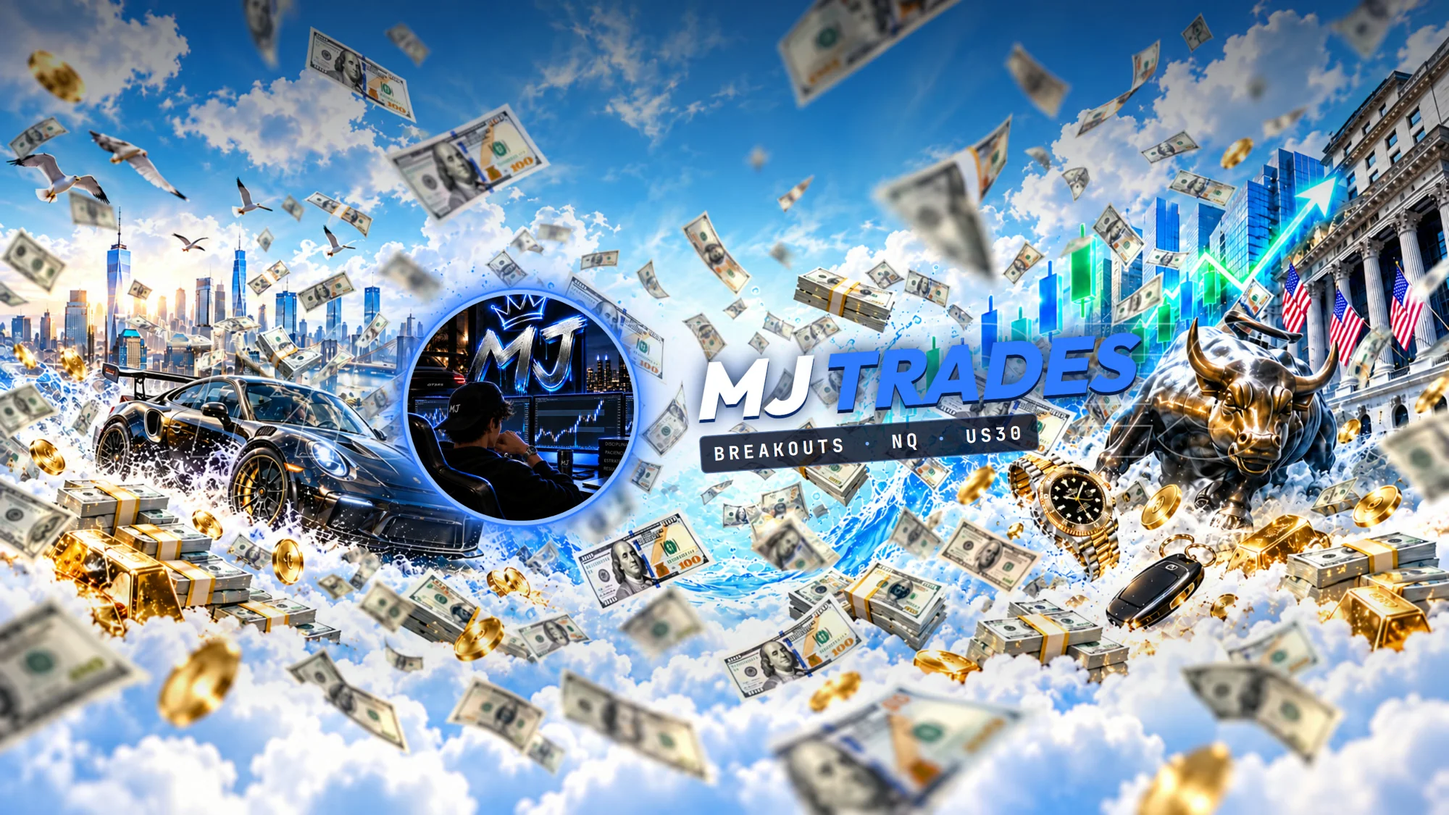
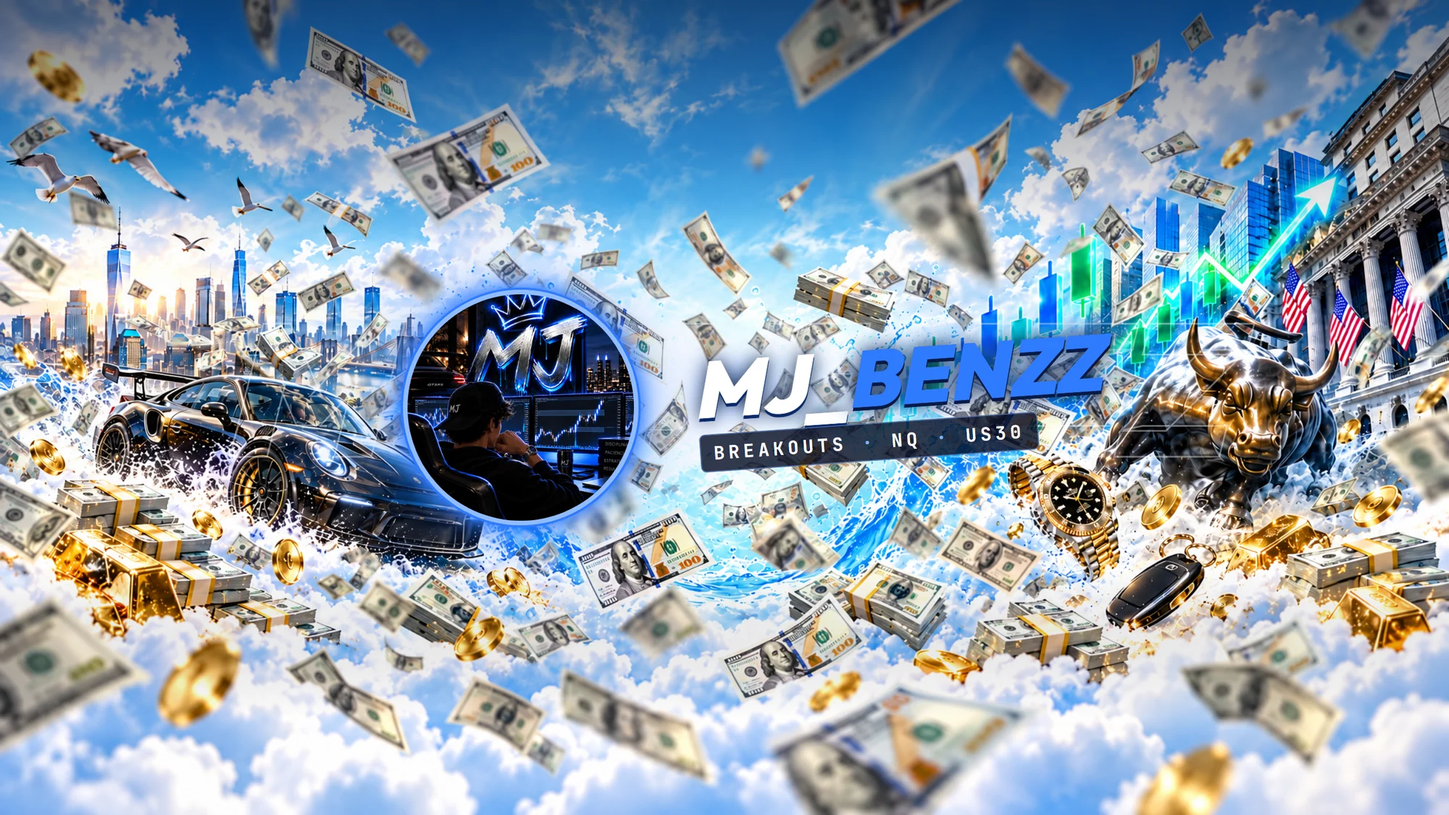
Win rate, BE con importe y nuevo nombre MJ_benzz
- Panel: tarjeta de win rate (ganados / ganados + perdidos, sin contar BE)
- BE con ganancia opcional de hasta $100; se conserva al editar
- Marca, enlaces, pie y banner pasan de MJ Trades a MJ_benzz

Changed region(s): [[0.496, 0.4044, 0.868, 0.5911], [0.155, 0.4667, 0.248, 0.56]]

diff --git a/app.html b/app.html
@@ -3,8 +3,8 @@
 <head>
 <meta charset="utf-8">
 <meta name="viewport" content="width=device-width, initial-scale=1, viewport-fit=cover">
-<title>Sangre Fría · MJ Trades</title>
-<meta name="description" content="Anota tus trades y descubre cuánto te cuesta romper tus reglas. Gratis, por MJ Trades.">
+<title>Sangre Fría · MJ_benzz</title>
+<meta name="description" content="Anota tus trades y descubre cuánto te cuesta romper tus reglas. Gratis, por MJ_benzz.">
 <meta name="theme-color" content="#02040a">
 <link rel="icon" href="favicon.ico" sizes="any">
 <link rel="icon" type="image/png" sizes="32x32" href="icono-32.png">
@@ -1246,7 +1246,7 @@
   <aside class="lateral">
     <a class="marca" href="index.html">
       <span class="logo"><img src="img/juego/app-icono.webp" alt="Sangre Fría"></span>
-      <span><b>Sangre Fría</b><small>by MJ Trades</small></span>
+      <span><b>Sangre Fría</b><small>by MJ_benzz</small></span>
     </a>
     <button class="ficha" id="ficha" aria-label="Tu perfil y tu pase"></button>
     <nav class="menu" id="menu">
@@ -1260,7 +1260,7 @@
     </nav>
     <button type="button" class="cuenta-chip" id="cuenta-chip" hidden></button>
     <div class="discord-card">
-      <b>Comunidad MJ Trades</b>
+      <b>Comunidad MJ_benzz</b>
       Comparte tu tarjeta y opera con más traders disciplinados.
       <a href="https://discord.gg/ahPAFXASs7" target="_blank" rel="noopener"><svg width="18" height="18"><use href="#i-discord"/></svg>Entrar al Discord</a>
     </div>
@@ -1268,10 +1268,10 @@
 
   <div>
     <div class="barra-movil">
-      <a class="marca" href="index.html"><span class="logo"><img src="img/juego/app-icono.webp" alt="Sangre Fría"></span><span><b>Sangre Fría</b><small>by MJ Trades</small></span></a>
+      <a class="marca" href="index.html"><span class="logo"><img src="img/juego/app-icono.webp" alt="Sangre Fría"></span><span><b>Sangre Fría</b><small>by MJ_benzz</small></span></a>
       <a class="inicio-movil" href="index.html" aria-label="Página principal"><svg width="20" height="20"><use href="#i-casa"/></svg></a>
       <button class="ficha-movil" id="ficha-movil" aria-label="Tu perfil"></button>
-      <a class="dc" href="https://discord.gg/ahPAFXASs7" target="_blank" rel="noopener" aria-label="Discord de MJ Trades"><svg width="20" height="20"><use href="#i-discord"/></svg></a>
+      <a class="dc" href="https://discord.gg/ahPAFXASs7" target="_blank" rel="noopener" aria-label="Discord de MJ_benzz"><svg width="20" height="20"><use href="#i-discord"/></svg></a>
     </div>
 
     <main>
@@ -1279,7 +1279,7 @@
       <section id="v-portada" hidden>
         <div class="portada">
           <div>
-            <div class="sello"><img src="mj-logo.png" alt="">Gratis · por MJ Trades</div>
+            <div class="sello"><img src="mj-logo.png" alt="">Gratis · por MJ_benzz</div>
             <h1>Tus reglas<br>valen <span class="grad">dinero.</span><br>Mira cuánto.</h1>
             <p class="lead">Anota tus trades, marca cuándo rompiste tus reglas y descubre cuánto habrías ganado si las hubieras seguido.</p>
             <div style="display:flex;gap:12px;flex-wrap:wrap">
@@ -1374,7 +1374,7 @@
         </form>
       </section>
 
-      <footer>Hecho por <b>MJ Trades</b> · <a href="https://discord.gg/ahPAFXASs7" target="_blank" rel="noopener">Únete a la comunidad en Discord</a><br>Herramienta educativa. No es asesoría financiera.</footer>
+      <footer>Hecho por <b>MJ_benzz</b> · <a href="https://discord.gg/ahPAFXASs7" target="_blank" rel="noopener">Únete a la comunidad en Discord</a><br>Herramienta educativa. No es asesoría financiera.</footer>
     </main>
   </div>
 </div>
@@ -1668,6 +1668,18 @@ function revelar(raiz) {
    máxima diaria en el camino "con reglas". */
 const riesgoPlan$ = aj => aj.cuenta * aj.riesgo / 100;
 
+/* Un BE puede llevar una ganancia pequeña (hasta BE_MAX). Los trades viejos sin la
+   marca "be" siguen contando como BE si su resultado fue $0. */
+const BE_MAX = 100;
+const esBE = t => t.be === true || t.resultado === 0;
+const esGanado = t => !esBE(t) && t.resultado > 0;
+const esPerdido = t => !esBE(t) && t.resultado < 0;
+// Win rate: ganados entre ganados + perdidos (los BE no cuentan). null si no hay ninguno.
+function winRate(trades) {
+  const g = trades.filter(esGanado).length, p = trades.filter(esPerdido).length;
+  return g + p ? Math.round(g / (g + p) * 100) : null;
+}
+
 function resultadoPlanBase(t, aj) {
   if (t.ok) return t.resultado;
   if (t.plan === 'nada') return 0;
@@ -1799,7 +1811,9 @@ function pintarPanel() {
   const limpios = lista.filter(x => !x.roto), rotos = lista.filter(x => x.roto);
   const pctDisc = Math.round(limpios.length / lista.length * 100);
   const media = arr => arr.length ? r2(arr.reduce((s, x) => s + x.real, 0) / arr.length) : 0;
-  const winrate = arr => arr.length ? Math.round(arr.filter(x => x.real > 0).length / arr.length * 100) : 0;
+  const winrate = arr => winRate(arr.map(x => x.t)) ?? 0;
+  const tradesPeriodo = lista.map(x => x.t), wr = winRate(tradesPeriodo);
+  const nGan = tradesPeriodo.filter(esGanado).length, nPer = tradesPeriodo.filter(esPerdido).length, nBE = tradesPeriodo.filter(esBE).length;
   const diasOperados = new Set(lista.map(x => x.t.fecha)).size;
   const anual = coste > 0 ? Math.round(coste / diasOperados * 240) : 0;
   const racha = rachaLimpia(todos);
@@ -1825,7 +1839,7 @@ function pintarPanel() {
     const linea = (f, quien) => f.quemada
       ? `<span class="rojo"><b>${quien}: cuenta quemada</b> el ${nombreDia(f.quemada).toLowerCase()}.</span>`
       : `${quien}: te quedan <b class="num" style="font-size:16px">${dinero(f.margen)}</b> antes de quemarla.`;
-    fondeo = `<div class="cristal s3 ancho aparece"><span class="etiqueta">Cuenta de fondeo · drawdown ${aj.ddTipo === 'trailing' ? 'trailing' : 'estático'} de ${dinero(aj.dd)}</span>
+    fondeo = `<div class="cristal s6 aparece"><span class="etiqueta">Cuenta de fondeo · drawdown ${aj.ddTipo === 'trailing' ? 'trailing' : 'estático'} de ${dinero(aj.dd)}</span>
       <div class="tanque"><i data-w="${pr}"></i><u style="left:calc(${pp}% - 1px)" title="Con tus reglas"></u></div>
       <p style="margin:10px 0 4px">${linea(fr, 'Real')}</p><p style="margin:0" class="hielo">${linea(fp, 'Con tus reglas')}</p></div>`;
   }
@@ -1855,10 +1869,15 @@ function pintarPanel() {
         ? `<span class="etiqueta">Si sigues así</span><span class="num rojo" data-n="${-anual}">$0</span><p>Es lo que te costaría en un año de trading (240 días) al ritmo de ${nombreP}.</p>`
         : `<span class="etiqueta">Si sigues así</span><span class="num hielo">$0</span><p>No estás perdiendo dinero por romper reglas. Mantén el ritmo.</p>`}</div>
 
+      <div class="cristal s3 ancho dato aparece" id="win-rate"><span class="etiqueta">Win rate</span>
+        ${wr === null ? '<span class="num">—</span>' : `<span class="num" data-n="${wr}" data-f="p">0%</span>`}
+        <p><b class="verde">${nGan} ${nGan === 1 ? 'ganado' : 'ganados'}</b> · <b class="rojo">${nPer} ${nPer === 1 ? 'perdido' : 'perdidos'}</b> · <b>${nBE} BE</b></p>
+        <p style="margin-top:4px">Los BE no cuentan en el porcentaje.</p></div>
+
       <div class="cristal s3 ancho aparece"><span class="etiqueta">Un trade promedio</span>
         <div class="comparar">
-          <div class="fila"><span>Con reglas<br><small class="mut">${winrate(limpios)}% ganadores</small></span>${barra(mL, 'linear-gradient(90deg,#b9dcff,#2f7bff)')}<b class="${claseDinero(mL)}">${limpios.length ? dinero(mL, true) : '—'}</b></div>
-          <div class="fila"><span>Sin reglas<br><small class="mut">${winrate(rotos)}% ganadores</small></span>${barra(mR, 'linear-gradient(90deg,#ff7a85,#ff4d5e)')}<b class="${claseDinero(mR)}">${rotos.length ? dinero(mR, true) : '—'}</b></div>
+          <div class="fila"><span>Con reglas<br><small class="mut">${winrate(limpios)}% win rate</small></span>${barra(mL, 'linear-gradient(90deg,#b9dcff,#2f7bff)')}<b class="${claseDinero(mL)}">${limpios.length ? dinero(mL, true) : '—'}</b></div>
+          <div class="fila"><span>Sin reglas<br><small class="mut">${winrate(rotos)}% win rate</small></span>${barra(mR, 'linear-gradient(90deg,#ff7a85,#ff4d5e)')}<b class="${claseDinero(mR)}">${rotos.length ? dinero(mR, true) : '—'}</b></div>
         </div></div>
       ${fondeo}
 
@@ -2130,7 +2149,7 @@ function pintarHistorial() {
       html += `<div class="cristal trade aparece ${x.roto ? 'roto' : ''}">
         <div class="t-info"><div class="t1">${esc(t.activo || 'Trade')} ${t.dir ? `<span class="mut" style="font-weight:500">· ${t.dir === 'long' ? 'Long' : 'Short'}</span>` : ''}</div>
           <div class="t2">Riesgo ${t.riesgo}% · ${x.roto ? '<span class="rojo">rompiste reglas</span>' : '<span class="verde">siguiendo tus reglas</span>'}</div></div>
-        <div class="cifra"><small>Real</small><b class="${claseDinero(x.real)}">${dinero(x.real, true)}</b></div>
+        <div class="cifra"><small>${esBE(t) ? 'Real · BE' : 'Real'}</small><b class="${claseDinero(x.real)}">${dinero(x.real, true)}</b></div>
         <div class="cifra"><small>Con reglas</small><b class="${claseDinero(x.plan)}">${dinero(x.plan, true)}</b></div>
         ${rotas.length || x.auto.length || t.emocion ? `<div class="etiquetas">
           ${rotas.map(r => `<span class="etq">${esc(r)}</span>`).join('')}
@@ -2273,6 +2292,13 @@ const FLECHA = { long: ICO('long'), short: ICO('short') };
 const VERDE = '#2ee08a', ROJO = '#ff4d5e', AZUL = '#2f7bff';
 const nombreTr = i => edit.items.length > 1 ? 'Trade ' + (i + 1) : 'Tu trade';
 
+const textoMonto = s => s === -1 ? '¿Cuánto perdiste en $?' : s === 0 ? `¿Ganaste algo? Opcional, máx. $${BE_MAX}` : '¿Cuánto ganaste en $?';
+// En un BE el importe es una ganancia pequeña opcional; nunca resta
+const valorItem = it => {
+  const m = Math.abs(parseFloat(it.monto) || 0);
+  return r2(it.s === 0 ? m : (it.s ?? 0) * m);
+};
+
 function htmlItem(it, i) {
   return `<div class="tr" data-i="${i}" data-res="${it.s ?? ''}">
     <div class="tr-cab"><b>${nombreTr(i)}</b><span class="tr-res"></span></div>
@@ -2285,7 +2311,7 @@ function htmlItem(it, i) {
       <button type="button" class="r-be" data-s="0" aria-pressed="${it.s === 0}">${ICO('be')}BE</button>
       <button type="button" class="r-pierde" data-s="-1" aria-pressed="${it.s === -1}">${ICO('pierde')}Perdido</button>
     </div>
-    <input type="number" data-monto min="0" step="any" inputmode="decimal" placeholder="${it.s === -1 ? '¿Cuánto perdiste en $?' : it.s === 0 ? 'BE: $0' : '¿Cuánto ganaste en $?'}" value="${it.monto}" ${it.s === 0 ? 'disabled' : ''}>
+    <input type="number" data-monto min="0" step="any" inputmode="decimal" placeholder="${textoMonto(it.s)}" value="${it.monto}">
   </div>`;
 }
 function pintarItems() {
@@ -2328,7 +2354,7 @@ function abrirTrade(id) {
   const t = id ? datos.trades.find(x => x.id === id) : null;
   edit = {
     ids: t ? [t.id] : [], paso: 1, ok: t ? t.ok : null, rotas: new Set(t?.rotas || []), plan: t?.plan || null, emocion: t?.emocion || '',
-    items: t ? [{ dir: t.dir || '', s: Math.sign(t.resultado), monto: Math.abs(t.resultado) || '' }] : [{ dir: '', s: null, monto: '' }],
+    items: t ? [{ dir: t.dir || '', s: esBE(t) ? 0 : Math.sign(t.resultado), monto: Math.abs(t.resultado) || '' }] : [{ dir: '', s: null, monto: '' }],
     rotosIdx: new Set(t ? [0] : []),
     otros: t?.planRes != null ? [{ s: Math.sign(t.planRes), monto: Math.abs(t.planRes) || '' }] : []
   };
@@ -2351,7 +2377,7 @@ const rotosI = () => edit.ok !== false ? [] : edit.items.length === 1 ? [0] : [.
 
 function pintarCuales() {
   $('#chips-tr').innerHTML = edit.items.map((it, i) => {
-    const v = r2((it.s ?? 0) * Math.abs(parseFloat(it.monto) || 0));
+    const v = valorItem(it);
     return `<button type="button" class="chip err" data-tr="${i}" aria-pressed="${edit.rotosIdx.has(i)}">Trade ${i + 1} · ${dinero(v, true)}</button>`;
   }).join('');
 }
@@ -2388,7 +2414,8 @@ function leerTrades() {
       activo: fT.activo.value.trim().toUpperCase(),
       dir: it.dir,
       riesgo: parseFloat(fT.riesgo.value) || 0,
-      resultado: r2((it.s ?? 0) * Math.abs(parseFloat(it.monto) || 0)),
+      resultado: valorItem(it),
+      be: it.s === 0,
       ok: edit.ok === null ? null : !roto,
       rotas: roto ? [...edit.rotas] : [],
       plan: roto ? edit.plan : null,
@@ -2447,7 +2474,7 @@ function actualizarTrade() {
     const t = ts[i]; if (!t) return;
     const it = edit.items[i], el = $('.tr-res', c);
     c.dataset.res = it.s ?? '';
-    el.textContent = it.s === null ? '' : it.s === 0 ? 'BE' : it.monto === '' ? '' : dinero(t.resultado, true);
+    el.textContent = it.s === null ? '' : it.s === 0 ? (t.resultado ? `BE · ${dinero(t.resultado, true)}` : 'BE') : it.monto === '' ? '' : dinero(t.resultado, true);
     el.className = 'tr-res ' + claseDinero(t.resultado);
   });
   const suma = (l, f) => r2(l.reduce((s, t) => s + f(t), 0));
@@ -2456,7 +2483,7 @@ function actualizarTrade() {
   $('#op-otro').textContent = rotos.length && edit.plan === 'otro' ? dinero(suma(rotos, t => t.planRes || 0), true) : '—';
 
   const real = suma(ts, t => t.resultado), plan = suma(ts, t => t.ok === false ? resultadoPlanBase(t, aj) : t.resultado);
-  const n = ts.length, gan = ts.filter(t => t.resultado > 0).length, per = ts.filter(t => t.resultado < 0).length;
+  const n = ts.length, gan = ts.filter(esGanado).length, per = ts.filter(esPerdido).length;
   $('#vp-real-txt').textContent = n > 1 ? `Real · ${n} trades` : 'Resultado real';
   const vr = $('#vp-real'), vp = $('#vp-plan');
   vr.dataset.n = real; vr.dataset.f = 'ds'; vr.className = 'num ' + claseDinero(real); vr.textContent = dinero(real, true);
@@ -2493,8 +2520,8 @@ fT.addEventListener('click', e => {
       it.s = Number(b.dataset.s);
       $$('[data-s]', card).forEach(x => x.setAttribute('aria-pressed', x === b));
       const inp = $('[data-monto]', card);
-      inp.disabled = it.s === 0; if (it.s === 0) { it.monto = ''; inp.value = ''; }
-      inp.placeholder = it.s === -1 ? '¿Cuánto perdiste en $?' : it.s === 0 ? 'BE: $0' : '¿Cuánto ganaste en $?';
+      if (it.s === 0) { it.monto = ''; inp.value = ''; }
+      inp.placeholder = textoMonto(it.s);
       pop(b); vibrar(it.s < 0 ? 30 : 10);
       if (it.s > 0) chispas(b, [VERDE, '#b6f5d6'], 14);
       if (it.s < 0) { card.classList.remove('temblor'); void card.offsetWidth; card.classList.add('temblor'); }
@@ -2532,6 +2559,7 @@ fT.addEventListener('submit', e => {
       const card = cards[i], quien = edit.items.length > 1 ? `el trade ${i + 1}` : 'tu trade';
       if (it.s === null) { toast(`¿${mayus(quien)} fue ganado, perdido o BE?`); card.classList.remove('temblor'); void card.offsetWidth; card.classList.add('temblor'); return; }
       if (it.s !== 0 && it.monto === '') { toast(`Escribe cuánto ${it.s > 0 ? 'ganaste' : 'perdiste'} en ${quien}`); $('[data-monto]', card).focus(); return; }
+      if (it.s === 0 && valorItem(it) > BE_MAX) { toast(`Un BE llega hasta $${BE_MAX}. Si ganaste más, márcalo como Ganado`); $('[data-monto]', card).focus(); return; }
     }
     irPaso(2); return;
   }
@@ -2771,7 +2799,7 @@ async function tarjeta() {
   txt('¿Cuánto te cuesta a ti', 1620, '800 50px \"Bricolage Grotesque\"', '#f2f7ff');
   txt('romper tus reglas?', 1690, '800 50px \"Bricolage Grotesque\"', '#4da3ff', 'rgba(47,123,255,.8)');
   txt('Calcúlalo gratis · ' + (location.host || 'Sangre Fría'), 1770, '600 34px "Bricolage Grotesque"', '#b9dcff');
-  txt('by MJ Trades', 1860, '700 30px \"Bricolage Grotesque\"', '#7f8db0');
+  txt('by MJ_benzz', 1860, '700 30px \"Bricolage Grotesque\"', '#7f8db0');
 
   cv.toBlob(async blob => {
     const nombre = `sangre-fria-${hoyISO()}.png`;

diff --git a/index.html b/index.html
@@ -3,8 +3,8 @@
 <head>
 <meta charset="utf-8">
 <meta name="viewport" content="width=device-width, initial-scale=1, viewport-fit=cover">
-<title>Sangre Fría · MJ Trades</title>
-<meta name="description" content="Anota cada trade, marca cuándo rompiste tus reglas y mira cuánto dinero te costó. Gratis, por MJ Trades.">
+<title>Sangre Fría · MJ_benzz</title>
+<meta name="description" content="Anota cada trade, marca cuándo rompiste tus reglas y mira cuánto dinero te costó. Gratis, por MJ_benzz.">
 <meta name="theme-color" content="#05070d">
 <link rel="icon" href="favicon.ico" sizes="any">
 <link rel="icon" type="image/png" sizes="32x32" href="icono-32.png">
@@ -260,7 +260,7 @@
   .cierre button:hover { background: var(--accent); transform: translateY(-.04em); }
   .cierre .expl { margin-top: 28px; font-size: var(--step-body); color: var(--muted); }
 
-  /* ---------- Pie: MJ TRADES construido con días ---------- */
+  /* ---------- Pie: MJ_BENZZ construido con días ---------- */
   footer { padding: 120px var(--m) 40px; }
   .marca-dias { display: grid; grid-template-columns: 9fr 31fr; gap: 3vw; }
   .palabra { display: grid; grid-auto-flow: column; grid-template-rows: repeat(5, auto); gap: 4px; min-width: 0; }
@@ -418,7 +418,7 @@
   }
   @media (prefers-reduced-motion: reduce) { .fl, .h2-tarjeta { animation: none !important; } }
 
-  /* Banner de MJ Trades en lugar de "Dos años sin ganar" (1-nov) */
+  /* Banner de MJ_benzz en lugar de "Dos años sin ganar" (1-nov) */
   .quien-banner { padding: 40px var(--m); }
   .quien-banner img { display: block; width: 100%; height: auto; border-radius: 18px; box-shadow: 0 30px 80px rgba(0,0,0,.5); }
   @media (max-width: 760px) { .quien-banner { padding: 24px var(--m); } .quien-banner img { border-radius: 12px; } }
@@ -518,7 +518,7 @@
     <img class="fl fl5" src="img/juego/sp-billete.webp" alt=""><img class="fl fl6" src="img/juego/sp-diamante.webp" alt="">
   </div>
   <div class="h2-txt">
-    <span class="h2-sello rv"><img src="img/juego/app-icono.webp" alt="">Gratis · by MJ Trades</span>
+    <span class="h2-sello rv"><img src="img/juego/app-icono.webp" alt="">Gratis · by MJ_benzz</span>
     <h1 class="rv">Opera con <em>sangre fría</em>.</h1>
     <p class="h2-apoyo rv">El diario de trading que te dice cuánto dinero te cuesta romper tus reglas. Anota en 20 segundos, sube de nivel y abre cofres siendo disciplinado.</p>
     <div class="h2-cta rv"><a class="boton h2-boton" href="app.html">Abrir mi diario gratis</a><a class="h2-sec" href="#prueba">Pruébalo aquí abajo</a></div>
@@ -620,14 +620,14 @@
   <p class="nota">Ejemplo de un mes en una cuenta de 50K. Tu diario arma esta lista con tus propias reglas y tus propios números.</p>
 </section>
 
-<section class="quien-banner" id="quien" aria-label="MJ Trades">
-  <img src="img/banner-mj.webp" alt="MJ Trades: logo y banner del canal" loading="lazy">
+<section class="quien-banner" id="quien" aria-label="MJ_benzz">
+  <img src="img/banner-mj.webp" alt="MJ_benzz: logo y banner del canal" loading="lazy">
 </section>
 
 <section class="faq" id="preguntas" aria-labelledby="t-faq">
   <h2 id="t-faq" class="rv">Antes de empezar</h2>
   <div class="lista">
-    <details name="faq" class="rv" open><summary>¿Cuánto cuesta?<i class="mas"></i></summary><p class="resp">Nada. Es gratis y lo va a seguir siendo. La hice para la comunidad de MJ Trades.</p></details>
+    <details name="faq" class="rv" open><summary>¿Cuánto cuesta?<i class="mas"></i></summary><p class="resp">Nada. Es gratis y lo va a seguir siendo. La hice para la comunidad de MJ_benzz.</p></details>
     <details name="faq" class="rv"><summary>¿Cómo calcula lo que habría pasado con mis reglas?<i class="mas"></i></summary><p class="resp">Cuando rompes una regla eliges qué habría pasado con tu plan: no habrías entrado ($0), el mismo trade con tu riesgo de siempre (lo recalcula solo) u otro resultado que escribes tú. El máximo de trades y la pérdida máxima del día los revisa la app sola.</p></details>
     <details name="faq" class="rv"><summary>¿Y si romper una regla me salió bien?<i class="mas"></i></summary><p class="resp">También lo ves. La app te lo dice tal cual: esta vez te salió bien, pero eso fue suerte, no tu sistema. Con el tiempo los números enseñan qué hábito te cuesta de verdad.</p></details>
     <details name="faq" class="rv"><summary>¿Sirve para cuentas de fondeo?<i class="mas"></i></summary><p class="resp">Sí. Pones tu drawdown máximo, trailing o estático, y te dice cuánto te queda antes de quemar la cuenta, con tus trades reales y con tus reglas.</p></details>
@@ -646,16 +646,16 @@
 </section>
 
 <footer>
-  <div class="marca-dias" id="marca-dias" role="img" aria-label="MJ Trades"></div>
+  <div class="marca-dias" id="marca-dias" role="img" aria-label="MJ_benzz"></div>
   <div class="pie-cols">
     <div><h3>Diario</h3><a href="app.html">Abrir mi diario</a><a href="app.html?ejemplo=1">Ver un ejemplo</a><a href="#como">Cómo funciona</a></div>
-    <div><h3>Comunidad</h3><a href="https://discord.gg/ahPAFXASs7" target="_blank" rel="noopener">Discord</a><a href="https://www.youtube.com/@MJTrades01" target="_blank" rel="noopener">YouTube</a><a href="https://www.instagram.com/mj_tradesbo/" target="_blank" rel="noopener">Instagram</a></div>
+    <div><h3>Comunidad</h3><a href="https://discord.gg/ahPAFXASs7" target="_blank" rel="noopener">Discord</a><a href="https://www.youtube.com/@MJbenzz" target="_blank" rel="noopener">YouTube</a><a href="https://www.instagram.com/mj_benzz/" target="_blank" rel="noopener">Instagram</a></div>
     <div><h3>Más</h3><a href="#cuesta">Lo que más cuesta</a><a href="#quien">Quién está detrás</a><a href="#preguntas">Preguntas</a></div>
     <div><h3>Aviso</h3><p style="font-size:15px;line-height:1.45">Herramienta educativa. No es asesoría financiera.</p></div>
-    <div class="contacto"><h3>MJ Trades</h3><p style="font-size:15px;line-height:1.45">Trader de futuros y creador de contenido. Opero en vivo y comparto el proceso, con todo y errores.</p></div>
+    <div class="contacto"><h3>MJ_benzz</h3><p style="font-size:15px;line-height:1.45">Trader de futuros y creador de contenido. Opero en vivo y comparto el proceso, con todo y errores.</p></div>
   </div>
-  <p class="creditos">Fotos de archivo: <a href="https://commons.wikimedia.org/wiki/File:New_York_Stock_Exchange_trading_floor_on_Wall_Street,_New_York,_New_York_LCCN2011634218.tif">“New York Stock Exchange trading floor”</a> de Carol M. Highsmith, <a href="https://creativecommons.org/publicdomain/mark/1.0/">dominio público</a>; <a href="https://commons.wikimedia.org/wiki/File:Wall_Street_at_night,_New_York,_New_York_-_20221123.jpg">“Wall Street at night”</a> de Andre Carrotflower, <a href="https://creativecommons.org/licenses/by-sa/4.0">CC BY-SA 4.0</a>; <a href="https://commons.wikimedia.org/wiki/File:Manhattan_at_night_north_of_Rockefeller_Center_(11226).jpg">“Manhattan at night north of Rockefeller Center”</a> de Rhododendrites, <a href="https://creativecommons.org/licenses/by-sa/4.0">CC BY-SA 4.0</a>; <a href="https://commons.wikimedia.org/wiki/File:Tickers_(8085342806).jpg">“Tickers”</a> de Francisco Gonzalez, <a href="https://creativecommons.org/licenses/by/2.0">CC BY 2.0</a>; <a href="https://commons.wikimedia.org/wiki/File:NY_stock_exchange_traders_floor_LC-U9-10548-6.jpg">“NY stock exchange traders floor”</a> de Thomas J. O'Halloran, <a href="https://creativecommons.org/publicdomain/mark/1.0/">dominio público</a>; todas vía Wikimedia Commons. Las imágenes de lujo y del toro de hielo son ilustraciones creadas para Sangre Fría; el resto de fotos, vídeo y certificados son de MJ Trades.</p>
-  <div class="ultima"><span>© 2026 MJ Trades · Sangre Fría</span><a class="boton" href="#">Volver arriba</a></div>
+  <p class="creditos">Fotos de archivo: <a href="https://commons.wikimedia.org/wiki/File:New_York_Stock_Exchange_trading_floor_on_Wall_Street,_New_York,_New_York_LCCN2011634218.tif">“New York Stock Exchange trading floor”</a> de Carol M. Highsmith, <a href="https://creativecommons.org/publicdomain/mark/1.0/">dominio público</a>; <a href="https://commons.wikimedia.org/wiki/File:Wall_Street_at_night,_New_York,_New_York_-_20221123.jpg">“Wall Street at night”</a> de Andre Carrotflower, <a href="https://creativecommons.org/licenses/by-sa/4.0">CC BY-SA 4.0</a>; <a href="https://commons.wikimedia.org/wiki/File:Manhattan_at_night_north_of_Rockefeller_Center_(11226).jpg">“Manhattan at night north of Rockefeller Center”</a> de Rhododendrites, <a href="https://creativecommons.org/licenses/by-sa/4.0">CC BY-SA 4.0</a>; <a href="https://commons.wikimedia.org/wiki/File:Tickers_(8085342806).jpg">“Tickers”</a> de Francisco Gonzalez, <a href="https://creativecommons.org/licenses/by/2.0">CC BY 2.0</a>; <a href="https://commons.wikimedia.org/wiki/File:NY_stock_exchange_traders_floor_LC-U9-10548-6.jpg">“NY stock exchange traders floor”</a> de Thomas J. O'Halloran, <a href="https://creativecommons.org/publicdomain/mark/1.0/">dominio público</a>; todas vía Wikimedia Commons. Las imágenes de lujo y del toro de hielo son ilustraciones creadas para Sangre Fría; el resto de fotos, vídeo y certificados son de MJ_benzz.</p>
+  <div class="ultima"><span>© 2026 MJ_benzz · Sangre Fría</span><a class="boton" href="#">Volver arriba</a></div>
 </footer>
 
 <script>
@@ -1021,12 +1021,14 @@ reglas.addEventListener('mouseover', e => {
 });
 reglas.addEventListener('mouseleave', () => vista.classList.remove('on'));
 
-/* ---------- Pie: MJ TRADES hecho con días del calendario ---------- */
+/* ---------- Pie: MJ_BENZZ hecho con días del calendario ---------- */
 const LETRAS = {
   M: ['10001', '11011', '10101', '10001', '10001'], J: ['0011', '0001', '0001', '1001', '0110'],
   T: ['111', '010', '010', '010', '010'], R: ['1110', '1001', '1110', '1010', '1001'],
   A: ['0110', '1001', '1111', '1001', '1001'], D: ['1110', '1001', '1001', '1001', '1110'],
-  E: ['111', '100', '110', '100', '111'], S: ['0111', '1000', '0110', '0001', '1110']
+  E: ['111', '100', '110', '100', '111'], S: ['0111', '1000', '0110', '0001', '1110'],
+  B: ['1110', '1001', '1110', '1001', '1110'], N: ['1001', '1101', '1011', '1001', '1001'],
+  Z: ['1111', '0001', '0110', '1000', '1111'], _: ['000', '000', '000', '000', '111']
 };
 function palabra(txt, rojo) {
   const cols = [];
@@ -1039,7 +1041,7 @@ function palabra(txt, rojo) {
   return `<div class="palabra" style="grid-template-columns:repeat(${cols.length},1fr)">` +
     cols.map(col => col.map(on => `<i class="${on ? 'on' : ''}${on && k++ === rojo ? ' rojo' : ''}"></i>`).join('')).join('') + '</div>';
 }
-$('#marca-dias').innerHTML = palabra('MJ', -1) + palabra('TRADES', 23);
+$('#marca-dias').innerHTML = palabra('MJ_', -1) + palabra('BENZZ', 23);
 
 /* ---------- Cierre: llevar la regla escrita al diario ---------- */
 $('#f-cierre').addEventListener('submit', e => {
